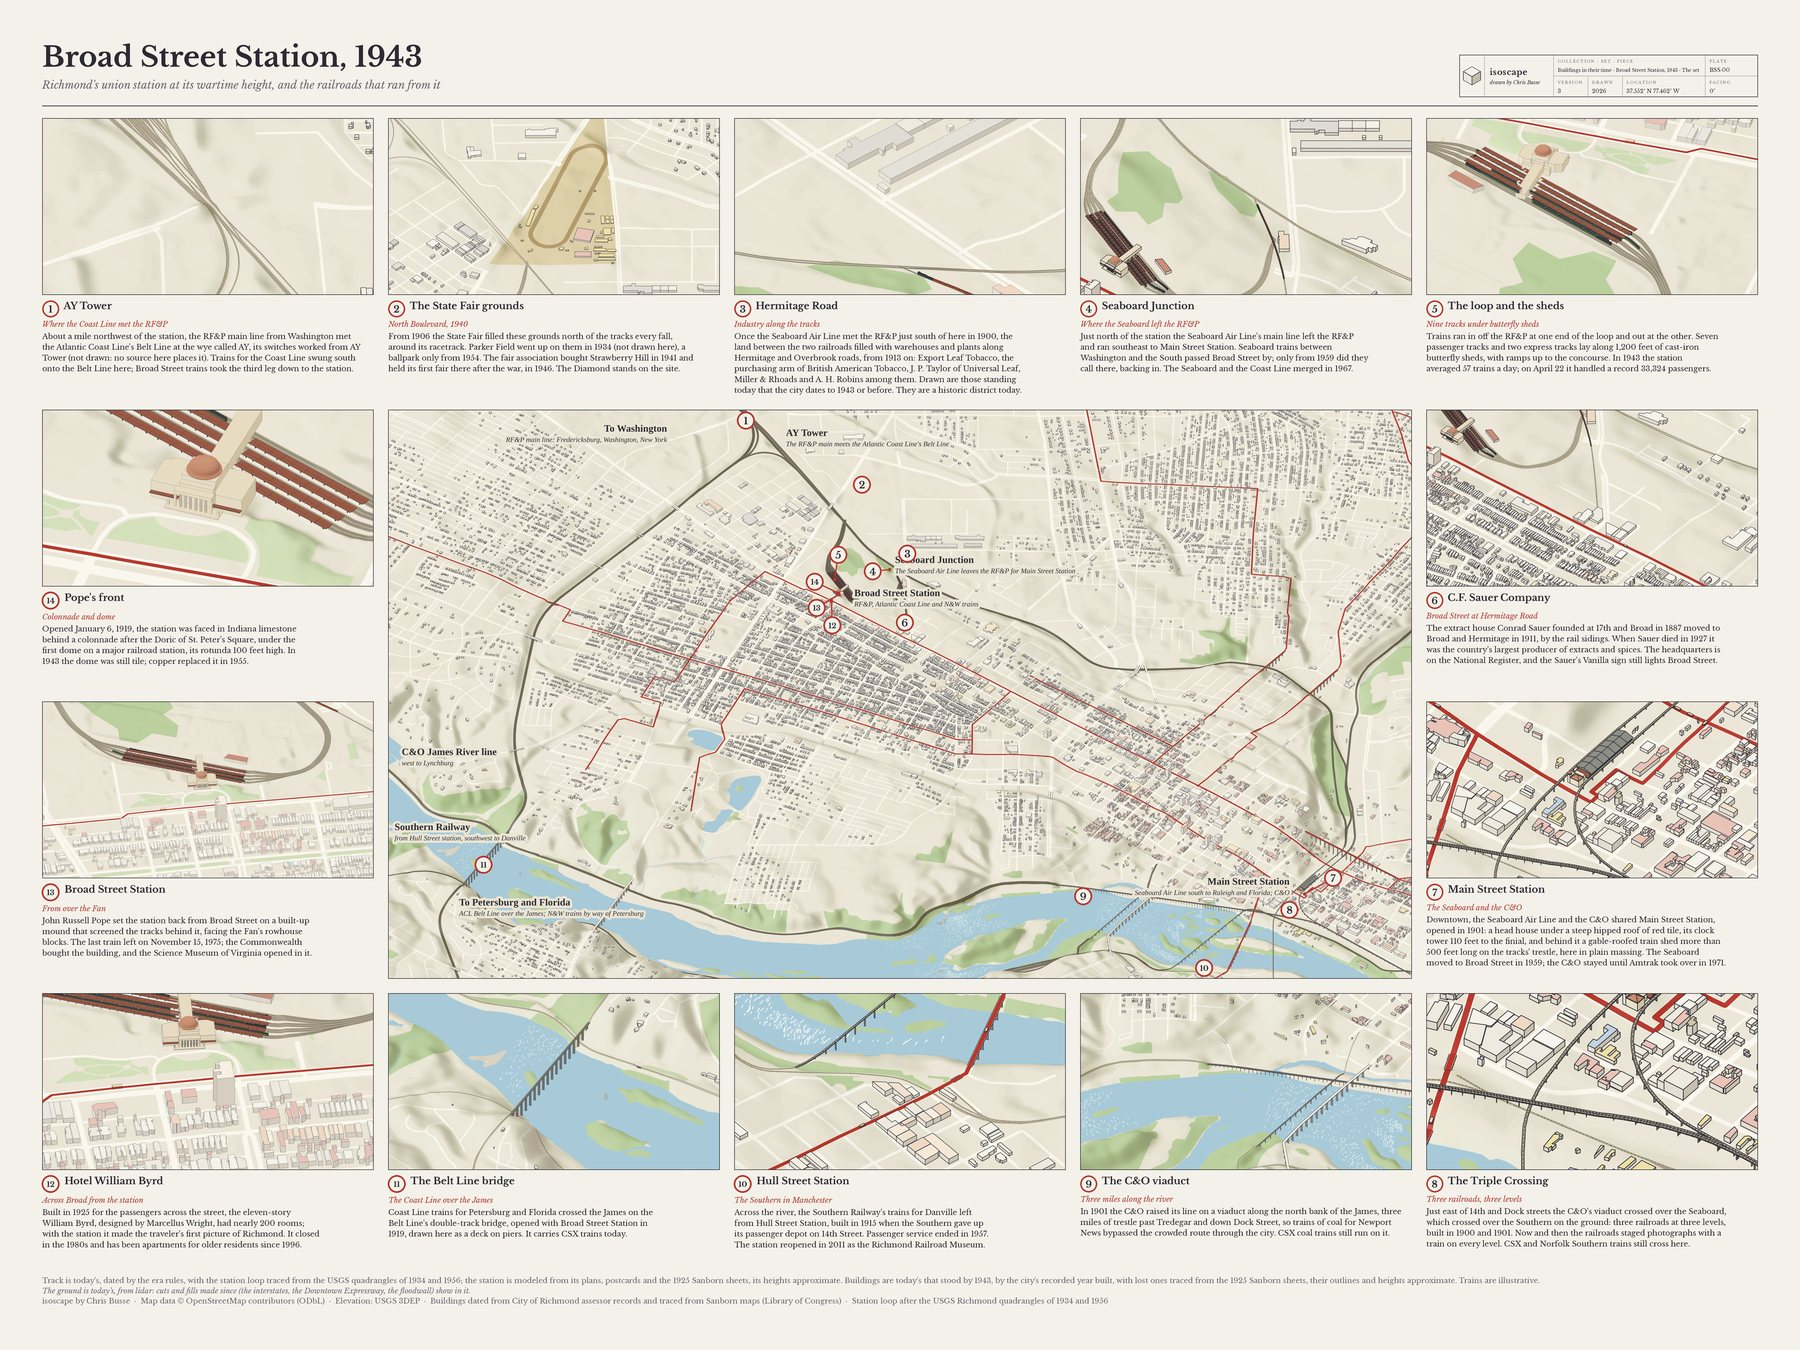
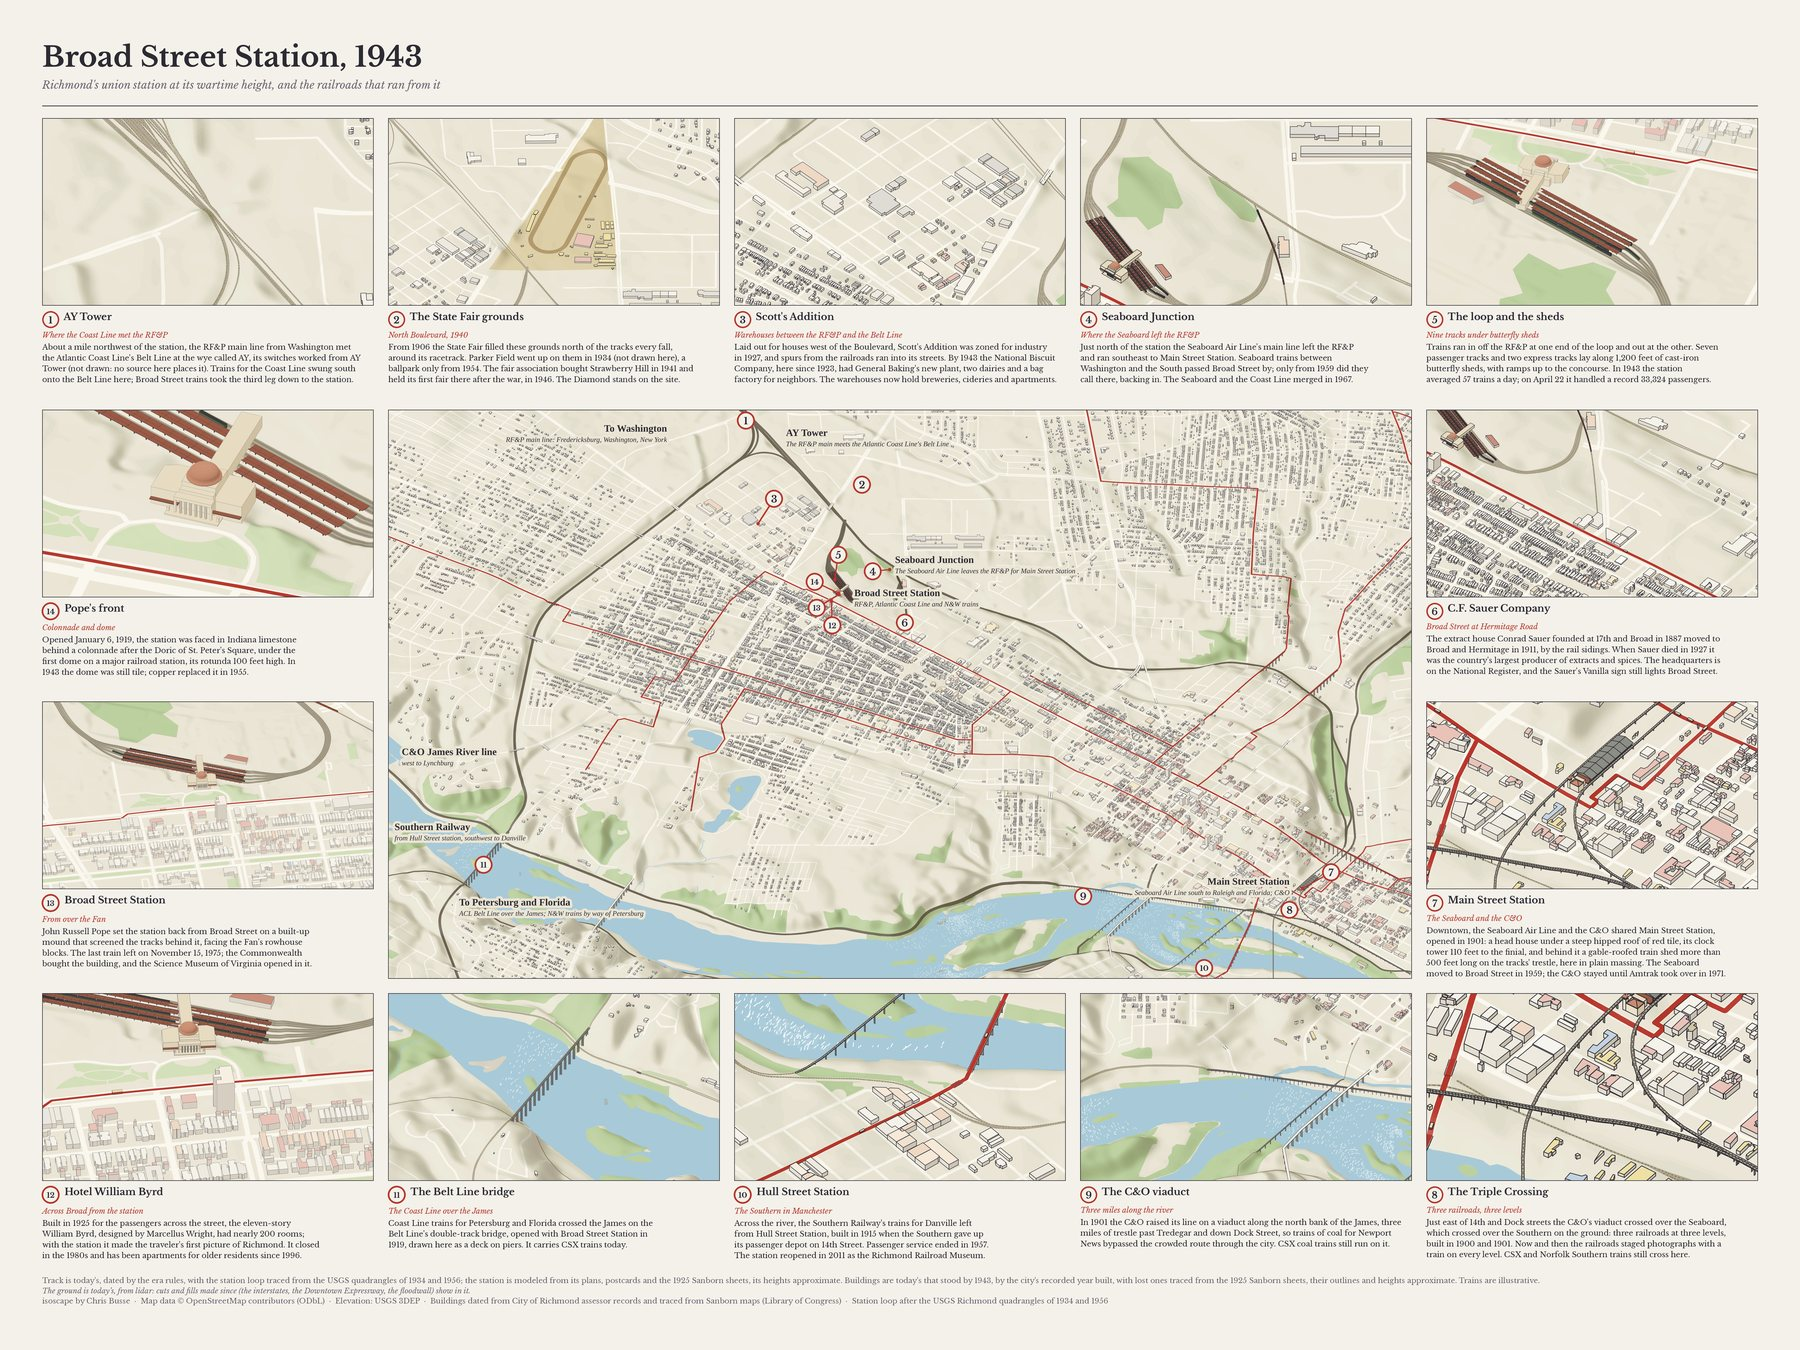
Broad Street map and menu: badge 3 set off General Baking's plant with a leader; page regenerated with Scott's Addition
Claude-Session: https://claude.ai/code/session_01BmucdKVM8FF97Ya9PzpVZh

diff --git a/pages/broad-street.md b/pages/broad-street.md
@@ -31,13 +31,13 @@ From 1906 the State Fair filled these grounds north of the tracks every fall, ar
 
 [See it on the map](https://busse.github.io/isoscape/#broad-street-lines:1940@-73,-810,6) · Sources: [1](https://richmondmagazine.com/news/news/a-fair-history/) [2](https://co-opliving.com/coopliving/issues/2009/September%202009/cover.htm) [3](https://urbanscalerichmondvirginia.blogspot.com/2014/12/a-brief-history-of-sports-complex-in.html) [4](https://en.wikipedia.org/wiki/The_Diamond_(Richmond,_Virginia))
 
-### 3. Hermitage Road
+### 3. Scott's Addition
 
-*Industry along the tracks*
+*Warehouses between the RF&P and the Belt Line*
 
-Once the Seaboard Air Line met the RF&P just south of here in 1900, the land between the two railroads filled with warehouses and plants along Hermitage and Overbrook roads, from 1913 on: Export Leaf Tobacco, the purchasing arm of British American Tobacco, J. P. Taylor of Universal Leaf, Miller & Rhoads and A. H. Robins among them. Drawn are those standing today that the city dates to 1943 or before. They are a historic district today.
+Laid out for houses west of the Boulevard, Scott's Addition was zoned for industry in 1927, and spurs from the railroads ran into its streets. By 1943 the National Biscuit Company, here since 1923, had General Baking's new plant, two dairies and a bag factory for neighbors. The warehouses now hold breweries, cideries and apartments.
 
-[See it on the map](https://busse.github.io/isoscape/#broad-street-hermitage:1943@-121,68,6) · Sources: [1](https://www.dhr.virginia.gov/historic-registers/127-6730/) [2](https://www.dhr.virginia.gov/pdf_files/127-7825_Hermitage_Road_Warehouse_HD_Update_BI_2023_NRHP_DraftFinal051023.pdf)
+[See it on the map](https://busse.github.io/isoscape/#broad-street-lines:1943@-450,-669,6) · Sources: [1](https://www.dhr.virginia.gov/historic-registers/127-6136/) [2](https://www.dhr.virginia.gov/VLR_to_transfer/PDFNoms/127-6136_ScottsAdditionHD_2005_NRHP_Final.pdf) [3](https://richmondbizsense.com/2022/06/24/scotts-addition-in-three-parts-the-eclectic-architecture-of-a-former-warehouse-district-guest-commentary/) [4](https://en.wikipedia.org/wiki/Scott%27s_Addition_Historic_District)
 
 ### 4. Seaboard Junction
 
